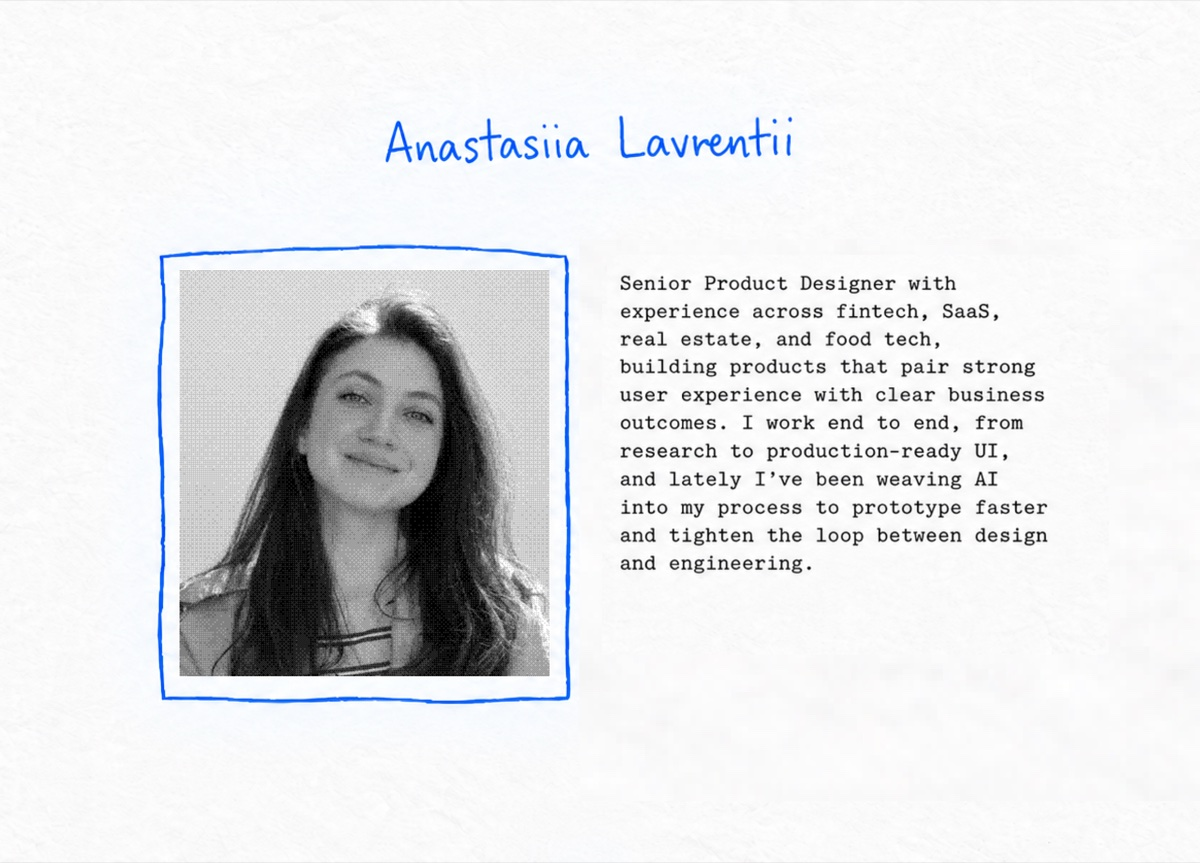
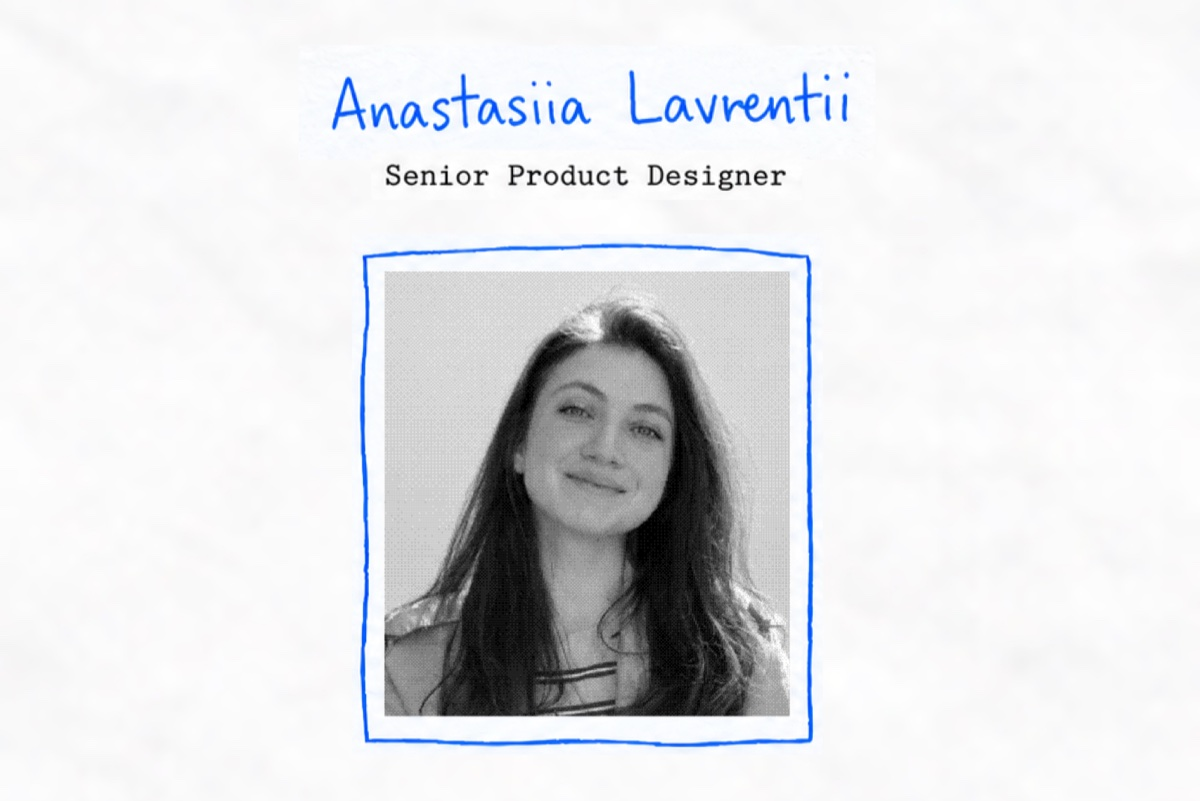
Replace OG image with new portrait cover

Changed region(s): [[0.1233, 0.2809, 0.8633, 0.9363], [0.2775, 0.0936, 0.7092, 0.2497]]

diff --git a/app/layout.tsx b/app/layout.tsx
@@ -21,7 +21,7 @@ export const metadata: Metadata = {
     siteName: "Anastasiia Lavrentii",
     title: siteTitle,
     description: siteDescription,
-    images: [{ url: "/og.jpg", width: 1200, height: 863, alt: siteTitle }],
+    images: [{ url: "/og.jpg", width: 1200, height: 801, alt: siteTitle }],
   },
   twitter: {
     card: "summary_large_image",
